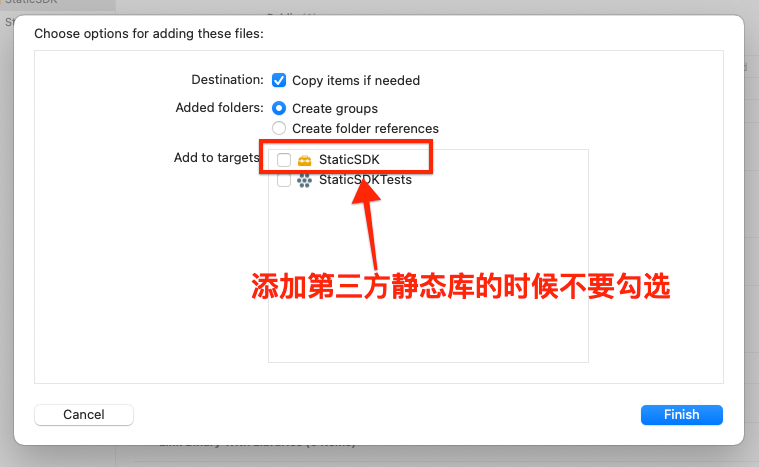
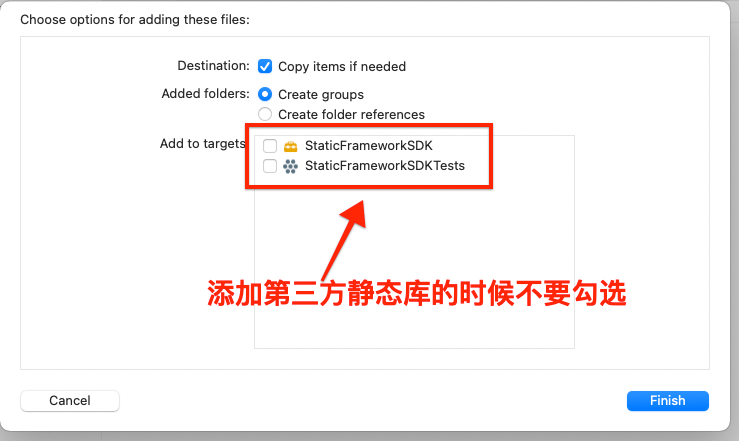
feat: 静态库frameworok 补充

diff --git a/iOS/Objective-C/静态库动态库.md b/iOS/Objective-C/静态库动态库.md
@@ -100,6 +100,7 @@ clang -ccc-print-phases main.m
 | armv64 | iPhone5s、 iPhoneX|
 
 
+&emsp; 理论上指令集是向下兼容的，比如连接设备为 arm64，那么是有可能编译出的动态库所支持的指令集为 armv7s 或者是 armv7。但是向下兼容并不是说一个 armv7s 的动态库可以用在 arm64 架构的设备上，如果连接的设备是 arm64 的，而导入的动态库是没有支持 arm64，那么在编译阶段即会报错。
 
 > <h2 id=''></h2>
 
@@ -163,6 +164,8 @@ clang -ccc-print-phases main.m
 
 &emsp; 所以我们自己使用CocoaTouchFramework框架制作的动态库实际上相对于系统的动态库是被阉割了,去掉了多个app共享的功能.想一想,毕竟这不是android开源的.
 
+
+![关系](https://raw.githubusercontent.com/harleyGit/StudyNotes/master/Pictures/ios_oc47.png)
 
 
 <br/>
@@ -232,20 +235,28 @@ clang -ccc-print-phases main.m
 
 ![接口头文件](https://raw.githubusercontent.com/harleyGit/StudyNotes/master/Pictures/ios_oc53.png)
 
+
+
+
 <br/>
 
 - **设置模拟器支持的架构类型**
 
 &emsp; iPhone 5模拟器正好是i386架构，iPhone 7模拟器 的cpu是 x86_64架构。所以还需要进行一步设置，使模拟器静态库支持i386 、x86_64设置如何查看静态库所支持的架构.如下:
 
-![支持的架构](https://raw.githubusercontent.com/harleyGit/StudyNotes/master/Pictures/ios_oc55.png)
+![Build Active Architecture Only设置](https://raw.githubusercontent.com/harleyGit/StudyNotes/master/Pictures/ios_oc60.png)
+
+1). 设置为NO的时候，会编译支持的所有的版本;
+
+2). 设置为YES的时候，是为Debug的时候速度更快，它只编译当前的architecture 版本
+
 
 
 <br/>
 
 - **查看包支持架构类型**
 
-&emsp; 库又分成模拟器库和真机的库,上面使用的是模拟器的库在真机中是没法使用的.真机的库是运行时通过选择`Any iOS Device(arm64)`来生成的.
+&emsp; 然后就可以点击运行,生成静态库包了. 这时库又分成模拟器库和真机的库,上面使用的是模拟器的库在真机中是没法使用的.真机的库是运行时通过选择`Any iOS Device(arm64)`来生成的.
 
 可以通过命令来查看时模拟器库还是真机库:
 
@@ -275,6 +286,9 @@ fatal error: /Applications/Xcode.app/Contents/Developer/Toolchains/XcodeDefault.
 怎么解决呢?
 
 ![解决架构相同问题](https://raw.githubusercontent.com/harleyGit/StudyNotes/master/Pictures/ios_oc54.png)
+
+
+<br/>
 
 
 <br/>
@@ -318,7 +332,9 @@ $ lipo -create /Users/xxxx/Library/Developer/Xcode/DerivedData/StaticSDK-gczvnjc
 <br/>
 <br/>
 
-> <h3 id='静态库.framework生成'>静态库.framework生成</h3>
+
+
+> <h3 id='静态库.framework生成'>**静态库.framework生成**</h3>
 
 > 新建一个项目
 
@@ -331,7 +347,7 @@ $ lipo -create /Users/xxxx/Library/Developer/Xcode/DerivedData/StaticSDK-gczvnjc
 
 &emsp; 这时创建的一个工程它默认是动态库,我们要通过设置对它进行设置为静态库, 选择`TARGETS` ——> `Build Settings` ——> `搜索框输入Mach` ——> `Linking中的Mach-o Type 修改为 Static Library`.
 
-&emsp; 在新建的项目中MyStatic的文件夹中有一个自动生成的文件`StaticSDK.h`,在我们需要公开功能的头文件都可以导入到此文件中,当我们使用时只需导入`StaticSDK.h`就可以了
+&emsp; 在新建的项目中StaticFrameworkSDK的文件夹中有一个自动生成的文件`StaticFrameworkSDK.h`,在我们需要公开功能的头文件都可以导入到此文件中,当我们使用时只需导入`StaticFrameworkSDK.h`就可以了
 
 
 <br/>
@@ -356,11 +372,43 @@ $ lipo -create /Users/xxxx/Library/Developer/Xcode/DerivedData/StaticSDK-gczvnjc
 
 <br/>
 
-- **设置需要暴露的MyStatic.h文件**
+- **设置需要暴露的StaticFrameworkSDK.h文件**
 
 ![暴露头文件](https://raw.githubusercontent.com/harleyGit/StudyNotes/master/Pictures/ios_oc50.png)
 
-需要暴露的头文件放置在Public里
+需要暴露的头文件放置在Public里, 若是不放则在打包后会爆如下错误:
+
+```
+In file included from /Users/harleyhuang/Desktop/Test1/Test1/ViewController.m:14:
+/Users/harleyhuang/Desktop/Test1/Test1/Lib/StaticFrameworkSDK.h:19:9: fatal error: 'StaticFrameworkTest.h' file not found
+#import "StaticFrameworkTest.h"
+        ^~~~~~~~~~~~~~~~~~~~~~~
+1 error generated.
+
+```
+
+所以进行如下配置:
+
+在StaticFrameworkSDK.h中(将其中无用的进行删除)导入StaticFrameworkTest.h头文件:
+
+![导入文件](https://raw.githubusercontent.com/harleyGit/StudyNotes/master/Pictures/ios_oc55.png)
+
+
+<br/>
+
+加入公共头文件
+
+![加入公共文件](https://raw.githubusercontent.com/harleyGit/StudyNotes/master/Pictures/ios_oc64.png)
+
+<br/>
+
+这里写了一个StaticFrameworkTest类,将其导入到StaticFrameworkSDK.h头文件中.
+
+![加入公共文件](https://raw.githubusercontent.com/harleyGit/StudyNotes/master/Pictures/ios_oc65.png)
+
+**注意:** 导入的头文件 `#import <StaticFrameworkSDK/StaticFrameworkTest.h>` 不要用`#import "StaticFrameworkTest.h"` 这样导入,即使这样可以导入但是导入工程后没有办法看到StaticFrameworkTest类的接口头文件.
+
+
 
 <br/>
 <br/>
@@ -383,21 +431,108 @@ $ lipo -create /Users/xxxx/Library/Developer/Xcode/DerivedData/StaticSDK-gczvnjc
 
 &emsp; 之后在模拟器环境下，让Xcode进行Build，之后在对应的Build文件夹下的Products文件夹中可以找到生成的framework文件.
 
-![](https://raw.githubusercontent.com/harleyGit/StudyNotes/master/Pictures/ios_oc44.webp)
+&emsp; 这里要说下,在Xcode13里,你在运行以后找不到Products文件下生成的
+StaticFrameworkSDK.framework,需要通过下面路径找到:
 
-当然也可以使用真机环境下进行编译,与[静态库.a生成](#静态库.a生成)生成真机framework一样,将2个库使用终端命令lipo来打包如下:
+![Xcode13找Products文件夹](https://raw.githubusercontent.com/harleyGit/StudyNotes/master/Pictures/ios_oc61.png)
+
+
+![](https://raw.githubusercontent.com/harleyGit/StudyNotes/master/Pictures/ios_oc44.png)
+
+
+
+-  **制作支持各机型的静态库**
+
+![Build Active Architecture Only统一设置为No, 会编译成支持所有的版本](https://raw.githubusercontent.com/harleyGit/StudyNotes/master/Pictures/ios_oc62.png)
+
+
+- Build Active Architecture Only 统一为 NO
+- Architectures 和 Valid Architectures 都设置为 armv7、armv7s、arm64、arm64e
+- 真机 Command + B 则生成支持 armv7、armv7s、arm64 的动态库，模拟器运行，则生成支持 i386、x86_64 的动态库。
+- 补充: Build Active Architecture Only设置为YES的时候，是为Debug的时候速度更快，它只编译当前的architecture 版本
+
+<br/>
+
+- 属性介绍:
+	- Architectures：指明选定 Target 要求被编译生成的二进制包所支持的指令集
+	- Build Active Architecture Only：指明是否只编译当前连接设备所支持的指令集，如果为 YES，那么只编译出连接设备所对应的指令集；如果为 NO，则编译出所有其它有效的指令集（由 Architectures 和 Valid Architectures决定）
+	- Valid Architectures：指明可能支持的指令集并非 Architectures 列表中指明的指令集都会被支持
+	- 编译产生的动态库所支持的指令集将由上面三个编译选项所影响，首先一个动态库要成功编译，则需要这三个编译选项的交集不为空。
+
+
+
+<br/>
+
 
 ```
-lipo -create （这里分别拖入两个目录下的签名文件路径） -output /Desktop/MyStaticFramework 
+示例1：
+  Architectures 为armv7、arm64
+  Valid Architectures 为armv7、armv7s、arm64
+  Build Active Architecture Only 为 debug:YES release:NO
+  链接设备:iPhone 6s (arm64架构的设备)
+  编译(command + shift + B,保证Build Active Architecture Only 为 debug:YES 生效)
+  结果：编译成功，生成的动态库支持的指令集为arm64.因为Architectures和Valid Architectures的交集为armv7、arm64.而armv7、arm64和Build Active Architecture Only(Debug为Yes,则为arm64),所以只有arm64
+
+示例2：
+  Architectures 为armv7、arm64
+  Valid Architectures 为 armv7s
+  Build Active Architecture Only 为 debug:YES release:NO
+  链接设备:iPhone 6s (arm64架构的设备)
+  编译(command + shift + B,保证Build Active Architecture Only 为 debug:YES 生效)
+  结果：编译失败，因为当前是debug模式，在该模式下Build Active Architecture Only  为YES，表示只编译支持该指令集的动态库，
+      但是由于Architectures和Build Active Architecture Only的交集中并不存在arm64，故三者的交集为空，故编译失败，无法生成动态库。
+
+示例3：
+  Architectures 为armv7、arm64
+  Valid Architectures 为armv7、armv7s、arm64
+  Build Active Architecture Only 为 debug:NO release:NO
+  链接设备:iPhone 6s (arm64架构的设备)
+  编译(command + shift + B,保证Build Active Architecture Only 为 debug:NO 生效)
+  结果：编译成功，因为当前是debug模式，在该模式下Build Active Architecture Only  为NO，
+    表示可以编译的结果可能为当前连接的设备所支持的指令集以及其向上兼容的指令集(armv64、armv7s、armv7)，其和另外两个编译选项的交集为armv7，故所生成的动态库支持的指令集为armv7
+```
+
+
+
+
+
+
+
+<br/>
+<br/>
+
+- **生成静态包**
+
+&emsp; 选择模拟器iPhone 13 Pro Max和真机 Any iOS Device(arm64 armv7) 分别生成模拟器包和真机包.
+
+
+⚠注意：编译时可能会出现三方静态库文件找不到的情况：报"XXXX/XXXX.h file not found "错误，那是因为没有设置Framework Search Paths。
+我项目中的三方在MyIMSDK目录下（点击+，将MyIMSDK目录拖进来就可以了）
+
+![Framework Search Paths 设置](https://raw.githubusercontent.com/harleyGit/StudyNotes/master/Pictures/ios_oc63.png)
+
+
+
+&emsp; 当然也可以使用真机环境下进行编译,与[静态库.a生成](#静态库.a生成)生成真机framework一样,将2个库使用终端命令lipo来打包如下:
+
+```
+lipo -create （这里分别拖入两个目录下的签名文件路径） -output /Desktop/StaticFrameworkSDK 
 ```
 
 注意: 签名文件要和库名保持一致.
 
 
-&emsp; 最后，将生成的新的签名文件MyStaticFramework拷贝到之前生成的带有_CodeSignature 文件夹的frameWork库的根目录下替换掉原来的库的签名文件。至此该frameWork就是我们最终生成的通用版frameWork库。
+&emsp; 最后，将生成真机和模拟器的静态库文件StaticFrameworkSDK拷贝到之前生成的带有_CodeSignature 文件夹StaticFrameworkSDK.framework目录下,替换掉原来StaticFrameworkSDK。至此StaticFrameworkSDK.framework就是我们最终生成的通用版静态framework库。
 
-&emsp; 将最终通用库拖进工程,导入`#import <MyStaticFramework/MyStaticFramework.h>`即可调用功能代码
+&emsp; 将最终通用库拖进工程,导入`#import <StaticFrameworkSDK/StaticFrameworkSDK.h>`即可调用功能代码
 
+![Framework Search Paths 设置](https://raw.githubusercontent.com/harleyGit/StudyNotes/master/Pictures/ios_oc67.png)
+
+
+&emsp; `StaticFrameworkSDK.framework` 我们拷到项目中后发现它并不能展开,然后导致看不到对应的头文件.这是正常的,但是我们通过Cocoapods管理就可以做到看到其脚本,这可能是因为其内部运行了对应的脚本将.h头文件给暴露了出来.
+
+
+[工程和静态库进行联调](https://www.jianshu.com/p/ca5c0bc69e08)
 
 
 
@@ -420,64 +555,9 @@ lipo -create （这里分别拖入两个目录下的签名文件路径） -outpu
 
 - Modules中的modulemap文件用来管理LLVM的module map，定义组件结构。
 
-&emsp; 新建一个项目，将前面构建的MyStatic.framework文件直接拖入此工程中，在工程的编译选项中，找到Framework Search Paths和Header Search Paths中分别将此framework的路径与头文件的路径进行配置，如下图所示：
-
-![](https://raw.githubusercontent.com/harleyGit/StudyNotes/master/Pictures/ios_oc46.webp)
 
 
-在项目中使用的代码如下:
-
-```
-#import "ViewController.h"
-#import "MyStatic.framework/Headers/MyStatic.h"
-
-@interface ViewController ()
-
-@end
-
-@implementation ViewController
-
-- (void)viewDidLoad {
-    [super viewDidLoad];
-    NSInteger a = 100;
-    NSInteger b = 200;
-    NSInteger c = [MyTool add:a another:b];
-    [MyLog log:[NSString stringWithFormat:@"%ld", c]];
-}
-
-
-@end
-```
-
-
-&emsp; 运行代码，我们的静态库已经可以正常工作了。但是这样我们会觉得上面的头文件引入方式非常的丑陋，我们可以在工程中新建一个文件夹，将framework包内的头文件拷贝过来，如下图：
-
-
-![](https://raw.githubusercontent.com/harleyGit/StudyNotes/master/Pictures/ios_oc47.webp)
-
-这样你就可以像引用工程内的头文件一样的使用framework中的功能了：
-
-```
-#import "ViewController.h"
-#import "MyStatic.h"
-
-@interface ViewController ()
-
-@end
-
-@implementation ViewController
-
-- (void)viewDidLoad {
-    [super viewDidLoad];
-    NSInteger a = 100;
-    NSInteger b = 200;
-    NSInteger c = [MyTool add:a another:b];
-    [MyLog log:[NSString stringWithFormat:@"%ld", c]];
-}
-
-@end
-```
-
+![路径配置解释](https://raw.githubusercontent.com/harleyGit/StudyNotes/master/Pictures/ios_oc46.png)
 
 
 
@@ -603,6 +683,13 @@ AFNetworking的动态库
 
 **注：默认是Do not embed, 需要设置为Embed & Sign，否则会报以下错误:**
 **dyld: Library not loaded: @rpath/DynamicFramework.framework/DynamicFramework Referenced from: /private/var/containers/Bundle/Application/DF439DDF-5DBC-41E3-842D-26FAB1D5BFEE/YYYTest.app/YYYTest Reason: image not found**
+
+
+[模拟器、真机动态库合并脚本](https://www.cnblogs.com/dins/p/ios-gou-jian-dong-tai-ku.html)
+
+[创建你自己的Framework](https://juejin.cn/post/6844903930439139336)
+
+[Swift Framework静态库制作与发布](https://blog.csdn.net/wmadao11/article/details/102635156)
 
 
 

diff --git a/React/XKBKnowledge.md b/React/XKBKnowledge.md
@@ -425,6 +425,29 @@ console.log(array);
 
 > <h2 id="匿名函数"> 匿名函数 </h2>
 
+&emsp; 自调用函数常见写法:
+
+```
+// 写法一:
+(function (形参列表) {
+
+		return .....
+		
+	} (实参列表))
+
+
+
+//写法二:
+(function(形参列表) {
+	
+	return ......
+	
+})(实参列表)
+
+```
+
+&emsp; 在自调用函数中定义的const常量，在外界是访问不到的，因为该常量的作用域仅限于自调用函数内部；并且在自调用函数外部，调用自调用函数也是不行的。因为自调用函数，顾名思义，只能自己在定义的同时调用自己一次,对外界不可见。
+
 <br/>
 
 > <h3 id="自调用函数"> 自调用函数 </h3>
